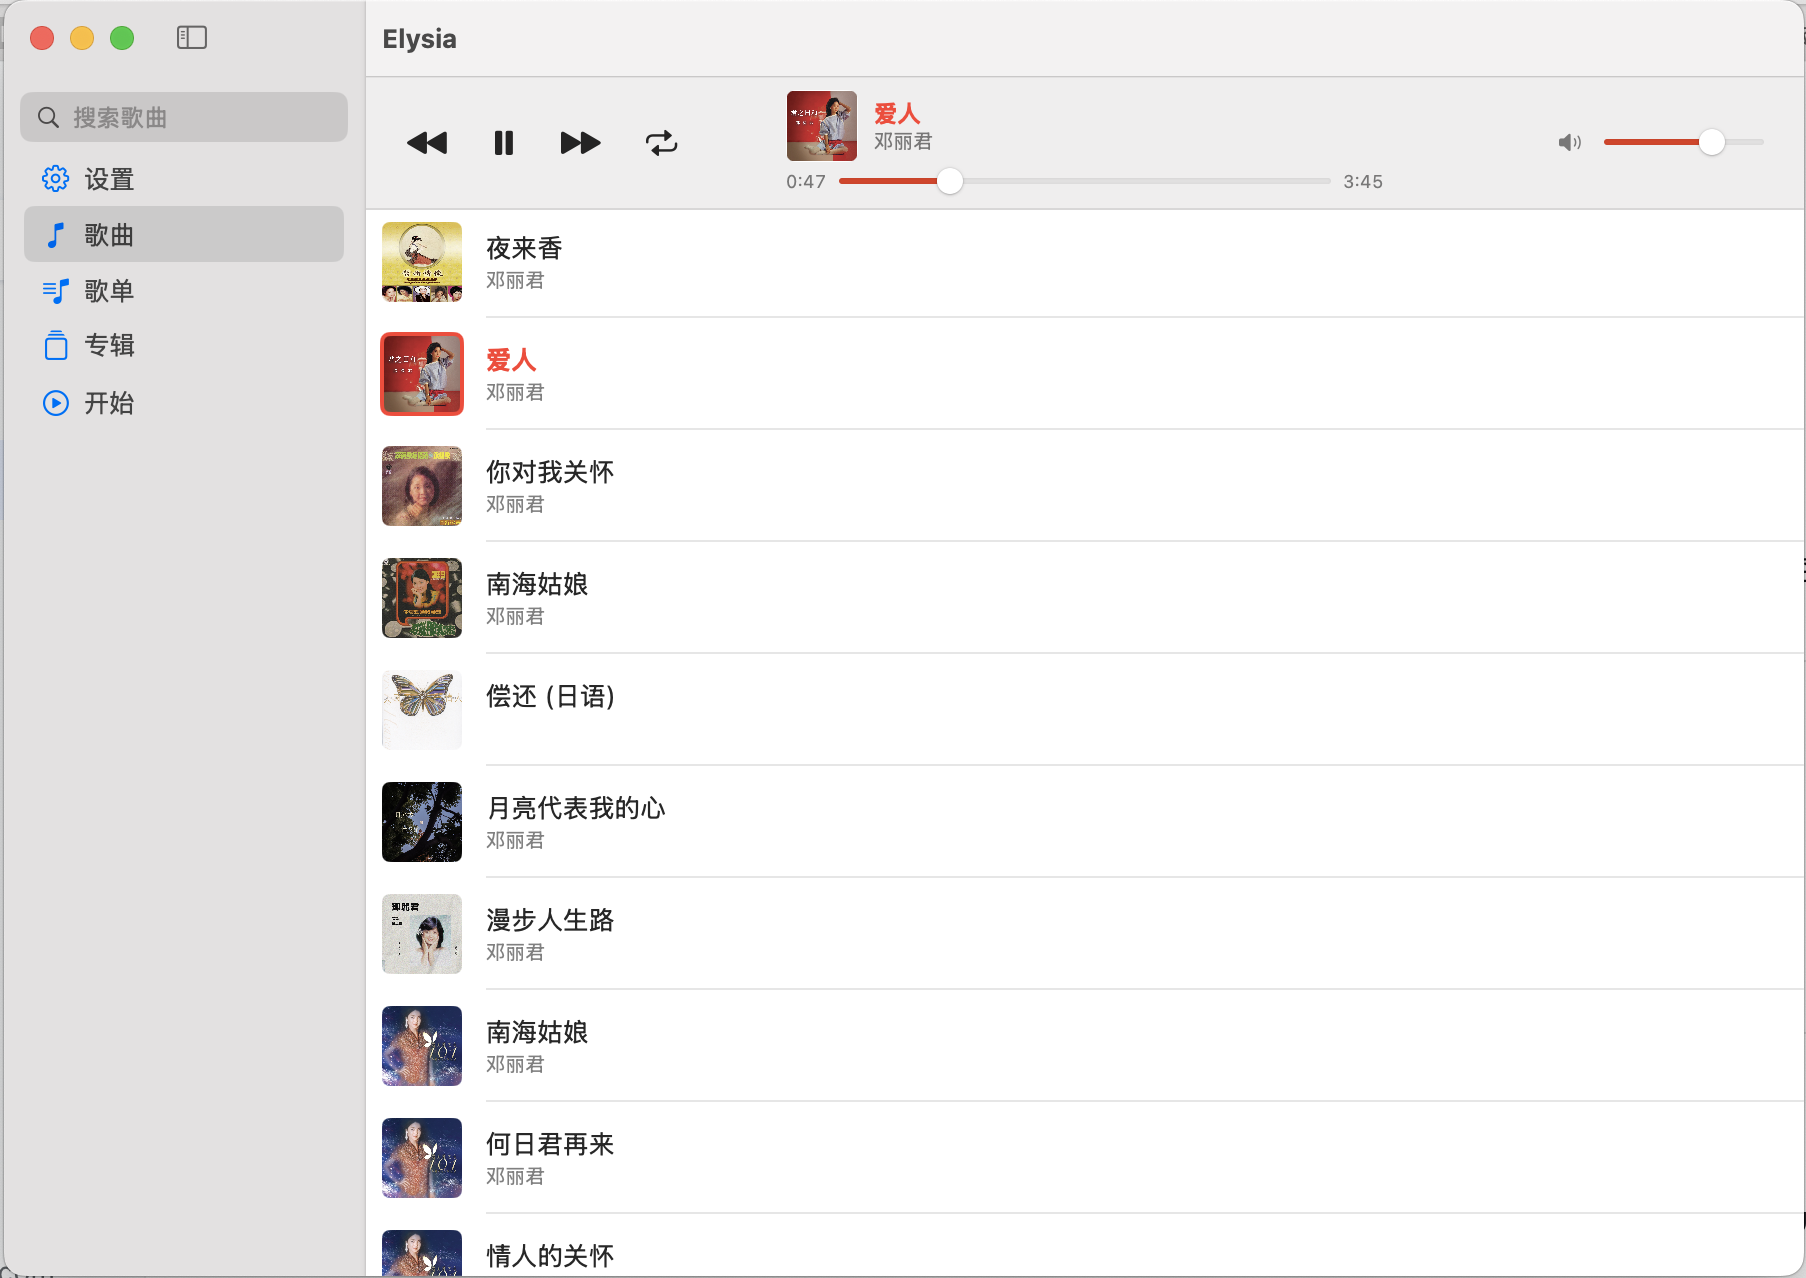
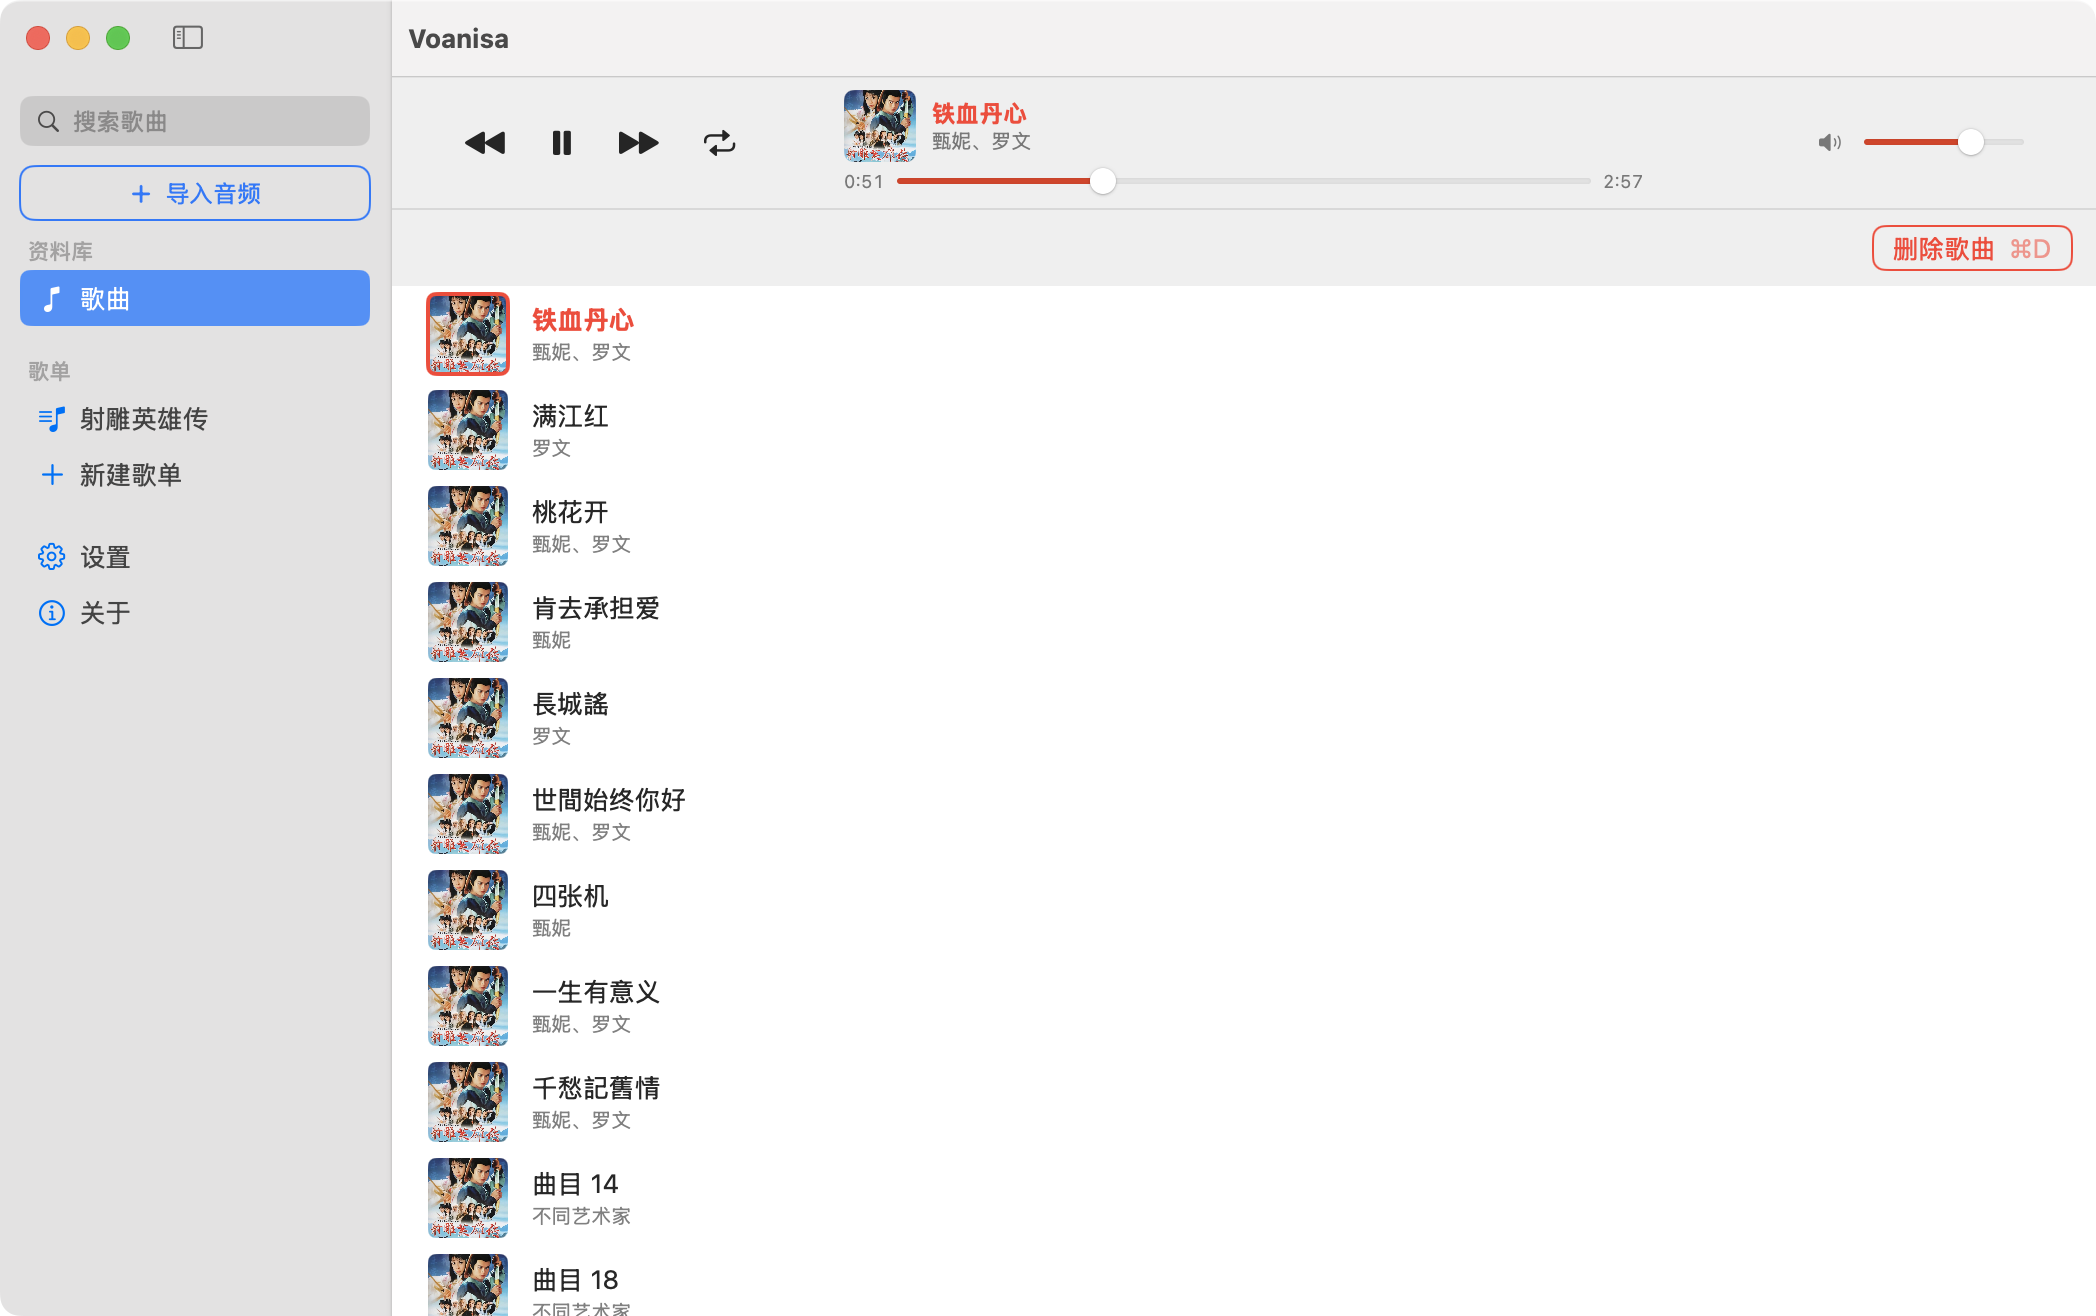
Wrap the library path in the same inline code style on both pages

diff --git a/index.html b/index.html
@@ -612,8 +612,8 @@
         <h2 style="font-size: 1.8rem; border-bottom: 2px solid var(--ink); padding-bottom: 10px; margin-top: 40px;" data-lang="zh">系统要求</h2>
         <p style="font-size: 1.1rem; line-height: 1.6; font-weight: bold;" data-lang="en">macOS Sequoia (15) and above</p>
         <p style="font-size: 1.1rem; line-height: 1.6; font-weight: bold;" data-lang="zh">macOS Sequoia (15) 或更高版本</p>
-        <p style="font-size: 1.1rem; line-height: 1.6; " data-lang="en">Audio files on disk. Voanisa keeps its library in ~/Music/Voanisa and needs no Apple Music library.</p>
-        <p style="font-size: 1.1rem; line-height: 1.6; " data-lang="zh">本地磁盘上的音频文件。Voanisa 把曲库放在 ~/Music/Voanisa，不需要 Apple Music 资料库。</p>
+        <p style="font-size: 1.1rem; line-height: 1.6; " data-lang="en">Audio files on disk. Voanisa keeps its library in <code style="background-color: var(--ink); color: #ffffff; padding: 2px 6px; border-radius: 4px;">~/Music/Voanisa</code> and needs no Apple Music library.</p>
+        <p style="font-size: 1.1rem; line-height: 1.6; " data-lang="zh">本地磁盘上的音频文件。Voanisa 把曲库放在 <code style="background-color: var(--ink); color: #ffffff; padding: 2px 6px; border-radius: 4px;">~/Music/Voanisa</code>，不需要 Apple Music 资料库。</p>
         <p style="font-size: 1.1rem; line-height: 1.6; " data-lang="en">
             WMA is not supported: macOS cannot decode it and the portable core has no
             ASF demuxer, so those files are marked unsupported when importing. Convert

diff --git a/Downloads/index.html b/Downloads/index.html
@@ -621,8 +621,8 @@
         <h2 style="font-size: 1.8rem; border-bottom: 2px solid var(--ink); padding-bottom: 10px;" data-lang="zh">系统要求</h2>
         <p style="font-size: 1.1rem; line-height: 1.6; font-weight: bold;" data-lang="en">macOS Sequoia (15) and above</p>
         <p style="font-size: 1.1rem; line-height: 1.6; font-weight: bold;" data-lang="zh">macOS Sequoia (15) 或更高版本</p>
-        <p style="font-size: 1.1rem; line-height: 1.6; " data-lang="en">Audio files on disk. Voanisa copies them into ~/Music/Voanisa and manages the library itself.</p>
-        <p style="font-size: 1.1rem; line-height: 1.6; " data-lang="zh">本地磁盘上的音频文件。Voanisa 会把它们复制到 ~/Music/Voanisa，并自行管理曲库。</p>
+        <p style="font-size: 1.1rem; line-height: 1.6; " data-lang="en">Audio files on disk. Voanisa copies them into <code style="background-color: var(--ink); color: #ffffff; padding: 2px 6px; border-radius: 4px;">~/Music/Voanisa</code> and manages the library itself.</p>
+        <p style="font-size: 1.1rem; line-height: 1.6; " data-lang="zh">本地磁盘上的音频文件。Voanisa 会把它们复制到 <code style="background-color: var(--ink); color: #ffffff; padding: 2px 6px; border-radius: 4px;">~/Music/Voanisa</code>，并自行管理曲库。</p>
         <p style="font-size: 1.1rem; line-height: 1.6; " data-lang="en">Apple silicon or Intel — one universal build covers both.</p>
         <p style="font-size: 1.1rem; line-height: 1.6; " data-lang="zh">Apple 芯片或 Intel 均可 —— 通用版已同时支持。</p>
 
